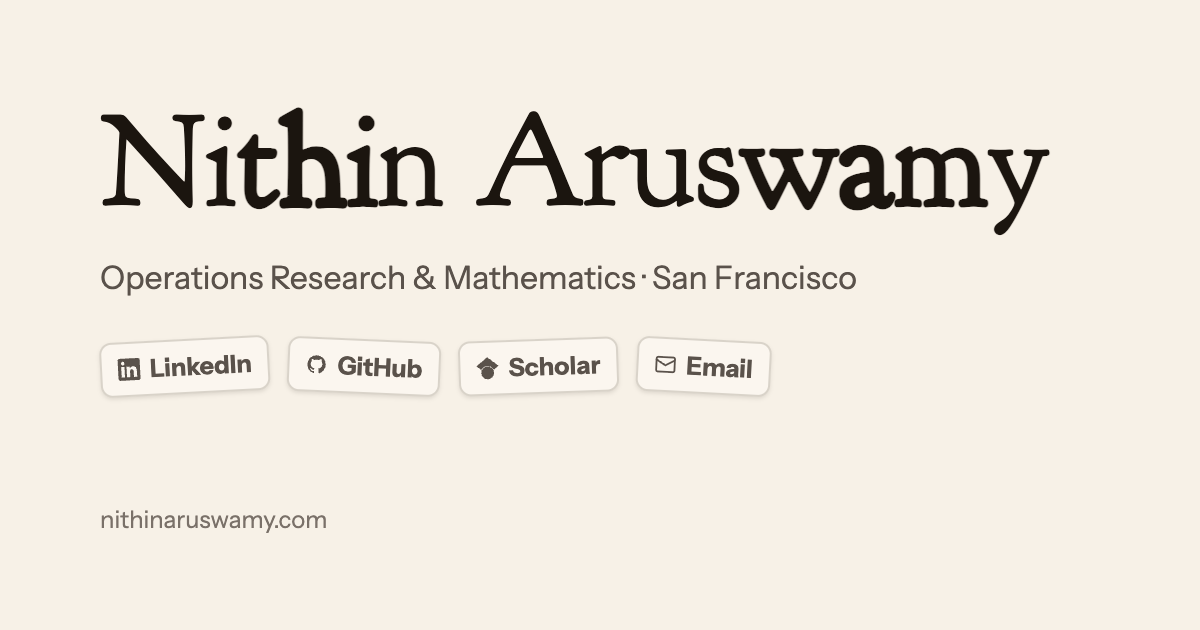
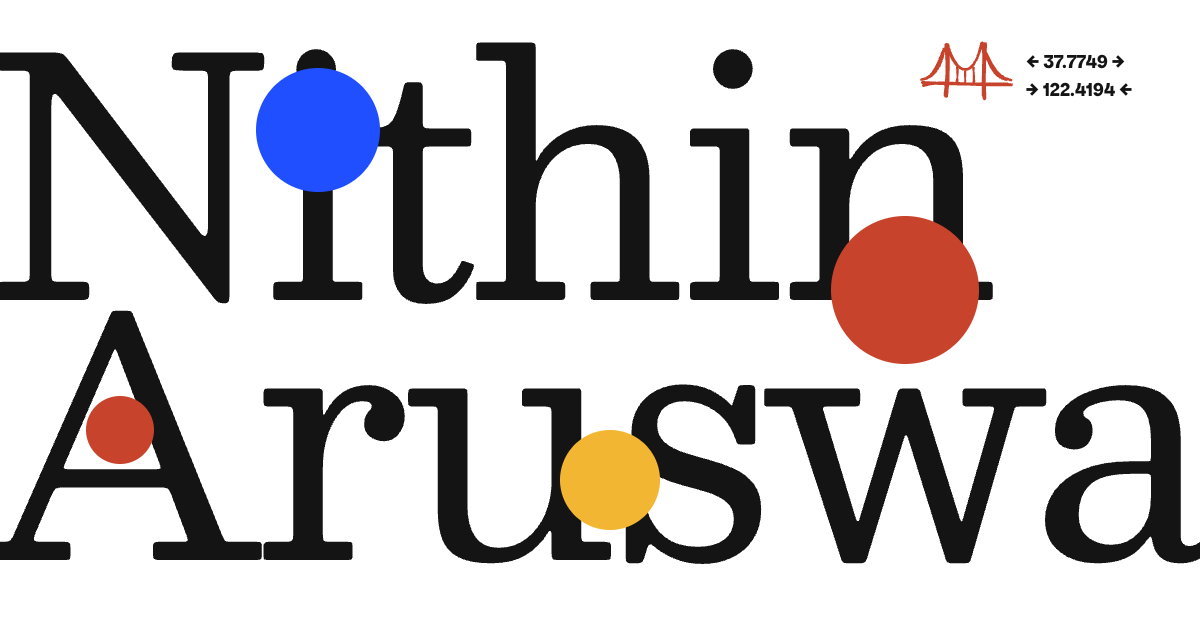
make the share image the big name with dots

diff --git a/src/globals.css b/src/globals.css
@@ -1026,68 +1026,3 @@ html {
   line-height: 1.5;
   color: #4a4a4a;
 }
-
-/* ------------------------------------------------------------------ */
-/* link preview ideas (see pages/og.tsx): a scratch page, to be deleted */
-/* ------------------------------------------------------------------ */
-
-.v2.og-ideas h1 {
-  font-size: 1.8em;
-}
-
-.v2 .og-idea {
-  margin-top: 3em;
-}
-
-.v2 .og-idea h2 {
-  font: inherit;
-  font-size: 1.15em;
-}
-
-.v2 .og-note {
-  margin: 0.2em 0 1em;
-  font-size: 0.78em;
-  line-height: 1.45;
-  color: #6b6b6b;
-}
-
-/* a link as a messaging app shows it: the card, then title and address */
-.v2 .og-bubble {
-  overflow: hidden;
-  border-radius: 18px;
-  background: #e9e9eb;
-  box-shadow: 0 0 0 1px rgb(0 0 0 / 0.08);
-}
-
-.v2 .og-bubble svg {
-  display: block;
-  width: 100%;
-  height: auto;
-}
-
-.v2 .og-caption {
-  display: flex;
-  flex-direction: column;
-  gap: 2px;
-  padding: 10px 14px 12px;
-  font-family: ui-sans-serif, system-ui, sans-serif;
-  font-size: 13px;
-  line-height: 1.3;
-  color: #111;
-}
-
-.v2 .og-caption span {
-  color: #77777c;
-}
-
-/* a hand-drawn sign placed on a card: sized by the font-size set inline */
-.v2 .og-drawn {
-  display: block;
-  line-height: 1;
-}
-
-.v2 .og-drawn .sign {
-  padding: 0;
-  margin: 0;
-  vertical-align: top;
-}
